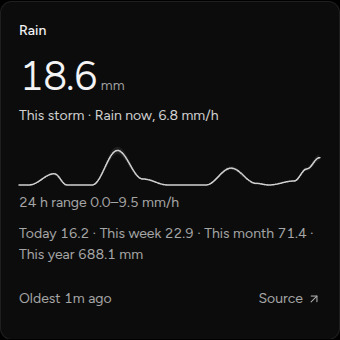
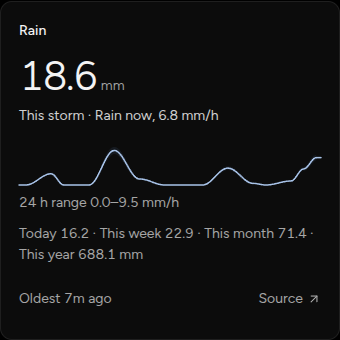
feat(views): add subtle color to live weather trends
Blend Rain's dusk blue and Pressure's pale gold equally with the existing neutral line color. Keep bands faint, disabled trends dashed gray, and ordinary Metric trends unchanged. Refresh real Browse captures with populated synthetic history.

diff --git a/web/src/index.css b/web/src/index.css
@@ -489,6 +489,10 @@
  */
 .view-weather { container-type:inline-size; }
 .view-weather .view-card-body { display:flex; flex-direction:column; gap:6px; }
+.view-rain { --weather-trend-color:var(--chart-4); }
+.view-pressure { --weather-trend-color:var(--chart-5); }
+:is(.view-rain,.view-pressure) .view-trend:not([data-value=dimmed]) .view-trend-mean { stroke:color-mix(in oklch,var(--weather-trend-color) 50%,var(--gray-9)); }
+:is(.view-rain,.view-pressure) .view-trend:not([data-value=dimmed]) .view-trend-band { fill:var(--weather-trend-color); fill-opacity:.08; }
 .view-weather-conditions { color:var(--gray-9); font-size:14px; line-height:1.5; text-wrap:balance; }
 .view-weather-detail, .view-weather-inline { color:var(--quiet); font-size:14px; line-height:1.5; font-variant-numeric:tabular-nums; text-wrap:pretty; }
 .view-weather-detail[data-value=dimmed], .view-weather-tendency[data-value=dimmed], .view-weather-inline [data-value=dimmed] { color:var(--gray-7); }

diff --git a/docs/design/weather-cards/restored-conditions/README.md b/docs/design/weather-cards/restored-conditions/README.md
@@ -1,7 +1,8 @@
 # Weather cards with full synthetic history
 
-These screenshots show production React and Core at `421cea1`, captured through
-Browse on November 11, 2026. The history is synthetic, seeded directly into this
+These screenshots show production React and Core from checkpoint `6a86a69`
+with the subsequent 50% weather-trend color treatment, captured through Browse
+on November 11, 2026. The history is synthetic, seeded directly into this
 worktree's simulator database to inspect complete trend lines. The browser does
 not mock API responses, and no household Devices or model turns were used.
 
@@ -52,18 +53,33 @@ backup are not checked into Git.
 | [Phone Pressure](metric-phone-pressure.png) | Element capture showing the falling curve and three-hour tendency |
 | [Phone Wind](metric-phone-wind.png) | Element capture retaining the compass and reading order |
 | [US phone Pressure](us-phone-pressure.png) | Element capture with the tendency and range in inches of mercury |
+| [Disabled trends](metric-disabled.png) | Real disabled fixture Entities retain dashed-gray lines and omit the bands |
 
 ## Observed result
 
 Both rain and pressure draw one continuous path across the full trend width,
 with a nonempty min–max band. Wide cards use a 72px plot; narrow cards retain
 the 44px plot. The curves, labels, and footers remain within their card bounds.
-The pressure card now shows **Falling · −3.1 hPa in 3 h**, or
+The pressure card shows **Falling · −3.0 hPa in 3 h**, or
 **Falling · −0.09 in Hg in 3 h** in the US household. Browse also verified that
 Source describes the five-minute sample means, min–max band, and tendency method.
 
+Live Rain lines blend dusk blue (`--chart-4`) equally with `--gray-9`; Pressure
+uses the same blend with pale gold (`--chart-5`). The bands use those chart
+colors at 8% opacity. Computed line contrast against the card surface is about
+11:1 for Rain and 13.2:1 for Pressure. Readings, labels, and surfaces remain
+neutral. The final captures use the real stylesheet after removing the
+temporary browser preview.
+
+The disabled-state check temporarily disabled the local rain-rate and pressure
+Entities through Core's metadata API. Both trends rendered gray with 4px/3px
+dashes and no band. Both Entities were re-enabled and confirmed before the
+live screenshots were captured. This changes neither household data nor the
+production status rules.
+
 This fixture bypasses Adapter ingestion for historical samples. It verifies
 Core's real history queries, household projection, and rendered cards, not
-backdated ingestion or physical sensor behavior. No production UI code changed
-for these captures. The owned Browse session and local stack were stopped;
+backdated ingestion or physical sensor behavior. The only production UI change
+for the color follow-up is scoped CSS for these two weather trends. The owned
+Browse session and local stack were stopped;
 the seeded database is retained for inspection.

diff --git a/DESIGN.md b/DESIGN.md
@@ -271,6 +271,12 @@ for the displayed value before allocating space to details. Rain's totals
 sentence spans both halves below. Narrower cards keep the single column;
 the card's available width, not its grid's column count, chooses the layout.
 
+Live Rain trends use dusk blue (`--chart-4`), and Pressure uses pale gold
+(`--chart-5`). Their lines mix equal parts of that color and `--gray-9` in
+OKLCH; the min–max band uses the chart color at 8% opacity. Readings, labels,
+and card backgrounds stay neutral. Unavailable or disabled trends retain the
+shared dashed-gray treatment. Other Metric trends keep their neutral lines.
+
 Forecast cards show modeled predictions, not station readings, and are the
 only cards that draw sky conditions. Daily rows are 44px tall: the day at 14px
 (**Today** first), a 28px condition icon, the precipitation chance at 13px
